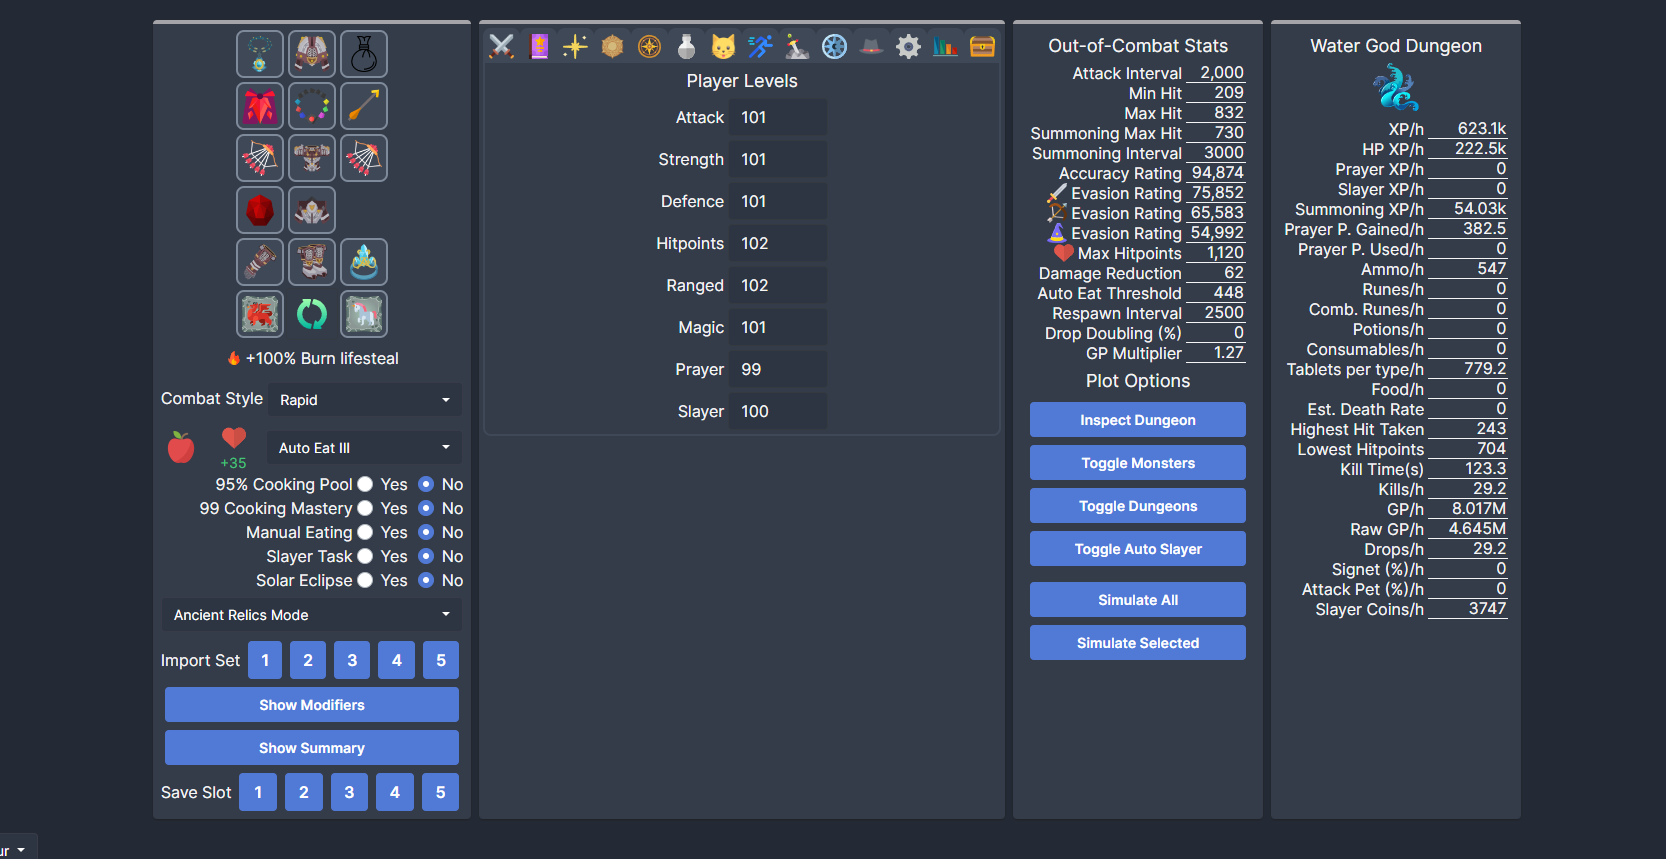
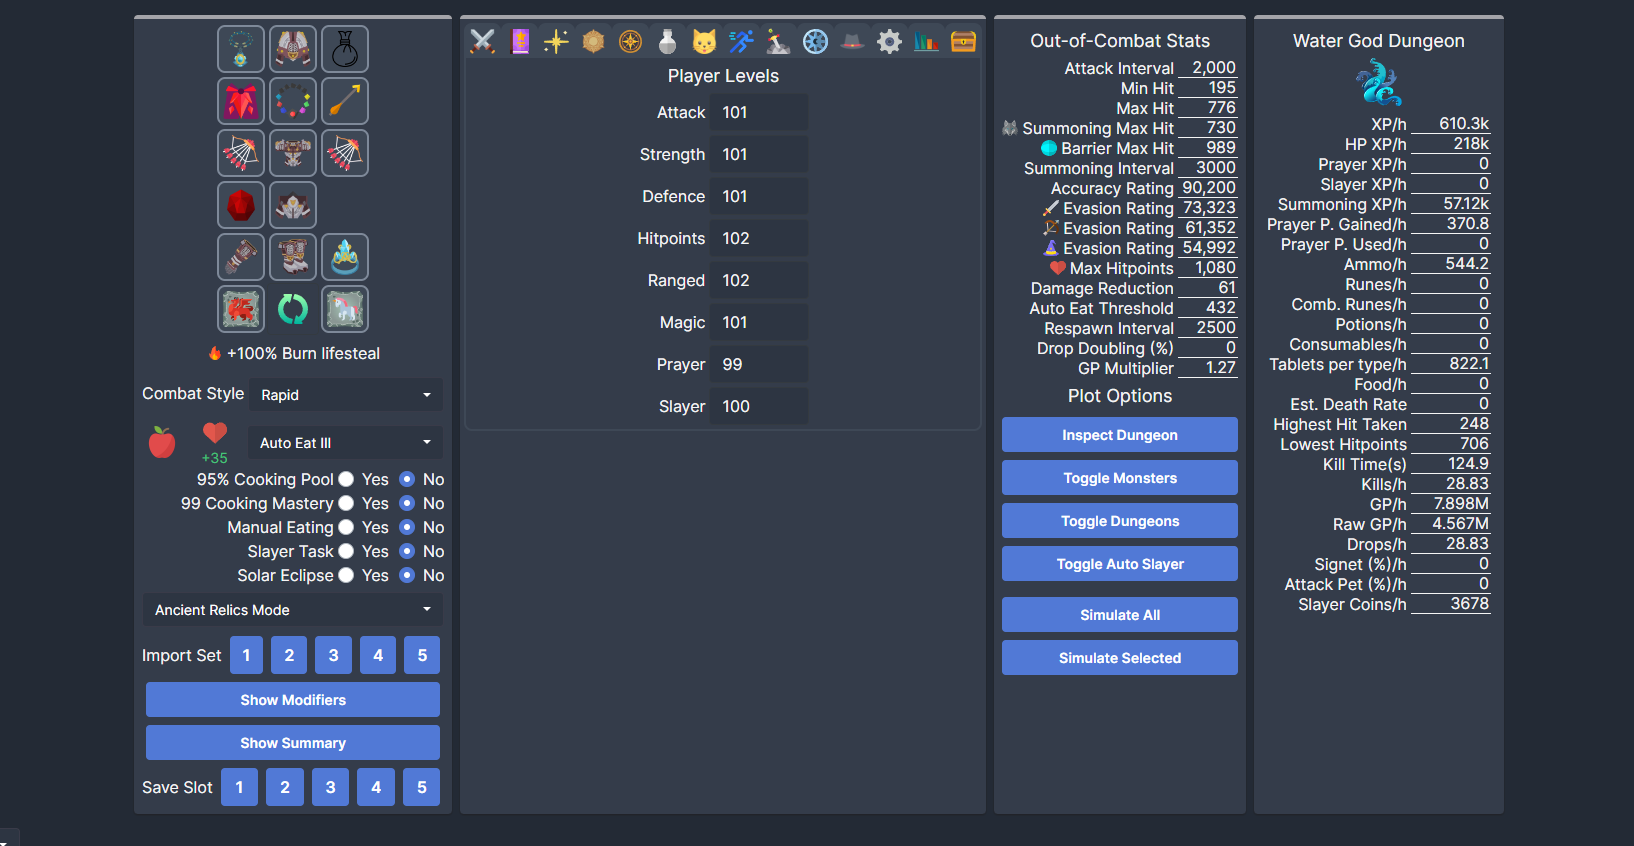
release 2.4.7 - summoning barrier max hit

diff --git a/src/app/app.ts b/src/app/app.ts
@@ -263,7 +263,8 @@ export class App {
             standardStar: 'assets/media/skills/astrology/star_standard.svg',
             uniqueStar: 'assets/media/skills/astrology/star_unique.svg',
             solarEclipse: 'assets/media/skills/township/eclipse.png',
-            autoEat: 'assets/media/shop/autoeat.svg'
+            autoEat: 'assets/media/shop/autoeat.svg',
+            barrier: 'assets/media/skills/combat/barrier.svg'
         };
 
         // default spell is wind strike
@@ -1052,6 +1053,7 @@ export class App {
             'Min Hit',
             'Max Hit',
             'Summoning Max Hit',
+            'Barrier Max Hit',
             'Summoning Interval',
             'Accuracy Rating',
             'Evasion Rating',
@@ -1068,7 +1070,8 @@ export class App {
             '',
             '',
             '',
-            '',
+            this.media.summoning,
+            this.media.barrier,
             '',
             '',
             this.media.attack,
@@ -1084,6 +1087,7 @@ export class App {
             'minHit',
             'maxHit',
             'summoningMaxHit',
+            'summoningBarrierMaxHit',
             'summoningInterval',
             'maxAttackRoll',
             'maxDefRoll',
@@ -1100,7 +1104,7 @@ export class App {
             this.combatStatCard.addNumberOutput(
                 combatStatNames[i],
                 0,
-                20,
+                16,
                 combatStatIcons[i] !== '' ? combatStatIcons[i] : '',
                 `MCS ${this.combatStatKeys[i]} CS Output`
             );

diff --git a/src/app/combat-data.ts b/src/app/combat-data.ts
@@ -33,6 +33,7 @@ export class CombatData {
         minHit: number;
         maxHit: number;
         summoningMaxHit: number;
+        summoningBarrierMaxHit: number;
         maxAttackRoll: number;
         maxDefRoll: number;
         maxRngDefRoll: number;
@@ -82,6 +83,7 @@ export class CombatData {
             minHit: 0,
             maxHit: 0,
             summoningMaxHit: 0,
+            summoningBarrierMaxHit: 0,
             maxAttackRoll: 0,
             maxDefRoll: 0,
             maxRngDefRoll: 0,
@@ -142,7 +144,12 @@ export class CombatData {
         this.combatStats.minHit = this.player.stats.minHit;
 
         // max summ roll
-        this.combatStats.summoningMaxHit = this.player.stats.summoningMaxHit;
+        const maxHit = this.player.stats.summoningMaxHit;
+
+        // @ts-ignore
+        this.combatStats.summoningMaxHit = this.player.getSummonMaxHitWithoutBarrier(maxHit);
+        // @ts-ignore
+        this.combatStats.summoningBarrierMaxHit = Math.floor(this.player.modifySummonAttackDamage(maxHit, true));
 
         // max defence roll
         this.combatStats.maxDefRoll = this.player.stats.evasion.melee;

diff --git a/src/app/summary.ts b/src/app/summary.ts
@@ -110,7 +110,7 @@ export class Summary {
         card.addSectionTitle('Out-of-Combat Stats');
 
         for (const { label, value, img } of stats) {
-            card.addNumberOutput(label, value, 20, img ?? '', `MCS Summary ${label} CS Output`);
+            card.addNumberOutput(label, value, 16, img ?? '', `MCS Summary ${label} CS Output`);
         }
 
         const food = this.app.player.food?.currentSlot?.item;

diff --git a/src/styles.scss b/src/styles.scss
@@ -67,6 +67,7 @@ body.darkMode {
             display: flex;
             align-items: flex-end;
             justify-content: end;
+            margin-bottom: 15px;
         }
     }
 
